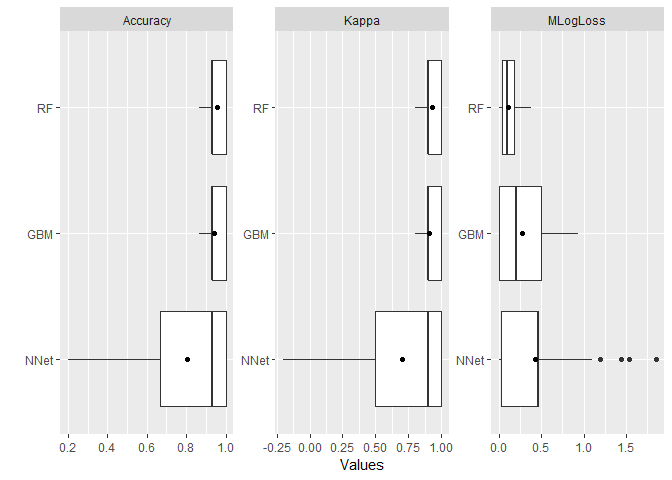
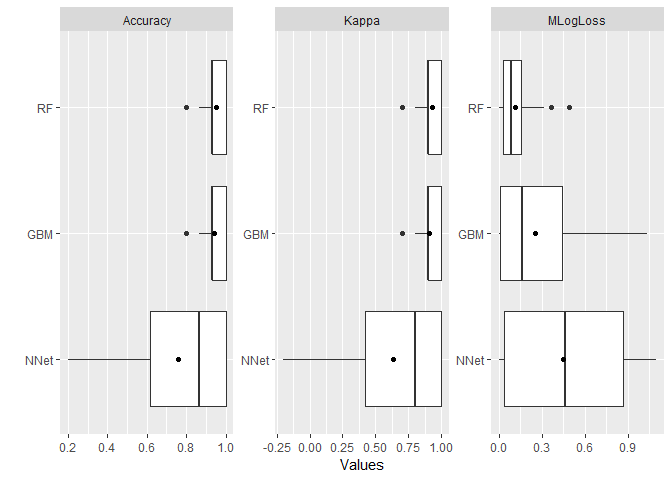
Replace MLModel response field with MLModelFit .y

diff --git a/README.md b/README.md
@@ -312,10 +312,10 @@ modelmetrics(obs, pred)
 #> resamples: 10
 
 summary(perf)
-#>               Mean    Median         SD         Min       Max NA
-#> Accuracy 0.9466667 0.9333333 0.05258738 0.866666667 1.0000000  0
-#> Kappa    0.9200000 0.9000000 0.07888106 0.800000000 1.0000000  0
-#> MLogLoss 0.2552582 0.1063595 0.28612682 0.001919676 0.7497674  0
+#>               Mean    Median         SD          Min       Max NA
+#> Accuracy 0.9333333 0.9333333 0.06285394 0.8000000000 1.0000000  0
+#> Kappa    0.9000000 0.9000000 0.09428090 0.7000000000 1.0000000  0
+#> MLogLoss 0.2265341 0.1212854 0.23089382 0.0003321915 0.5716866  0
 
 plot(perf)
 ```
@@ -341,11 +341,11 @@ plot(gbmtune, type = "line")
 gbmtunefit <- fit(fo, data = df, model = gbmtune)
 
 varimp(gbmtunefit)
-#>                Overall
-#> Petal.Length 100.00000
-#> Petal.Width   36.94008
-#> Sepal.Length   0.00000
-#> Sepal.Width    0.00000
+#>               Overall
+#> Petal.Length 100.0000
+#> Petal.Width   41.5202
+#> Sepal.Length   0.0000
+#> Sepal.Width    0.0000
 ```
 
 ### Model Comparisons
@@ -363,24 +363,24 @@ perf <- Resamples(GBM = gbmperf, RF = rfperf, NNet = nnetperf)
 summary(perf)
 #> , , Accuracy
 #> 
-#>           Mean    Median         SD       Min Max NA
-#> GBM  0.9413333 0.9333333 0.04595176 0.8666667   1  0
-#> RF   0.9560000 0.9333333 0.04782811 0.8666667   1  0
-#> NNet 0.8026667 0.9333333 0.22170643 0.2000000   1  0
+#>           Mean    Median         SD Min Max NA
+#> GBM  0.9386667 0.9333333 0.05360475 0.8   1  0
+#> RF   0.9533333 0.9333333 0.05259696 0.8   1  0
+#> NNet 0.7560000 0.8666667 0.26687407 0.2   1  0
 #> 
 #> , , Kappa
 #> 
 #>       Mean Median         SD  Min Max NA
-#> GBM  0.912    0.9 0.06892765  0.8   1  0
-#> RF   0.934    0.9 0.07174217  0.8   1  0
-#> NNet 0.704    0.9 0.33255965 -0.2   1  0
+#> GBM  0.908    0.9 0.08040713  0.7   1  0
+#> RF   0.930    0.9 0.07889544  0.7   1  0
+#> NNet 0.634    0.8 0.40031110 -0.2   1  0
 #> 
 #> , , MLogLoss
 #> 
-#>           Mean     Median         SD          Min       Max NA
-#> GBM  0.2701410 0.20428253 0.26370125 8.629640e-04 0.9391568  0
-#> RF   0.1163476 0.09404182 0.09769631 8.437327e-03 0.3860373  0
-#> NNet 0.4244166 0.46209812 0.46775866 8.472304e-05 1.8545264  0
+#>           Mean     Median        SD          Min       Max NA
+#> GBM  0.2518192 0.16342373 0.2688835 0.0010846265 1.0332245  0
+#> RF   0.1148603 0.08794764 0.1026771 0.0059784000 0.4879684  0
+#> NNet 0.4484417 0.46209826 0.4244811 0.0002317343 1.0986124  0
 
 plot(perf)
 ```
@@ -394,24 +394,24 @@ perfdiff <- diff(perf)
 summary(perfdiff)
 #> , , Accuracy
 #> 
-#>                   Mean Median         SD         Min        Max NA
-#> GBM - RF   -0.01466667      0 0.03636549 -0.06666667 0.06666667  0
-#> GBM - NNet  0.13866667      0 0.22691463 -0.13333333 0.73333333  0
-#> RF - NNet   0.15333333      0 0.22985749 -0.13333333 0.73333333  0
+#>                   Mean     Median         SD        Min        Max NA
+#> GBM - RF   -0.01466667 0.00000000 0.03877957 -0.1333333 0.06666667  0
+#> GBM - NNet  0.18266667 0.06666667 0.26283299 -0.1333333 0.73333333  0
+#> RF - NNet   0.19733333 0.03333333 0.25906162 -0.1333333 0.73333333  0
 #> 
 #> , , Kappa
 #> 
 #>              Mean Median         SD  Min Max NA
-#> GBM - RF   -0.022      0 0.05454824 -0.1 0.1  0
-#> GBM - NNet  0.208      0 0.34037195 -0.2 1.1  0
-#> RF - NNet   0.230      0 0.34478624 -0.2 1.1  0
+#> GBM - RF   -0.022   0.00 0.05816935 -0.2 0.1  0
+#> GBM - NNet  0.274   0.10 0.39424948 -0.2 1.1  0
+#> RF - NNet   0.296   0.05 0.38859244 -0.2 1.1  0
 #> 
 #> , , MLogLoss
 #> 
-#>                  Mean       Median        SD         Min       Max NA
-#> GBM - RF    0.1537934  0.073026764 0.1913883 -0.03670239 0.5726908  0
-#> GBM - NNet -0.1542756  0.001171424 0.4843939 -1.71381702 0.6686546  0
-#> RF - NNet  -0.3080690 -0.205618326 0.4625920 -1.77270930 0.2399817  0
+#>                  Mean      Median        SD         Min        Max NA
+#> GBM - RF    0.1369589  0.06137821 0.1849732 -0.04170943 0.66167256  0
+#> GBM - NNet -0.1966225 -0.01021118 0.4405118 -1.09726064 0.58532527  0
+#> RF - NNet  -0.3335814 -0.22890815 0.4066831 -1.09142835 0.08762133  0
 
 t.test(perfdiff)
 #> An object of class "ResamplesHTest"
@@ -423,23 +423,23 @@ t.test(perfdiff)
 #> , , Accuracy
 #> 
 #>               GBM            RF      NNet
-#> GBM            NA -1.466667e-02 0.1386667
-#> RF   0.0063465898            NA 0.1533333
-#> NNet 0.0001513451  6.080819e-05        NA
+#> GBM            NA -1.466667e-02 0.1826667
+#> RF   1.014730e-02            NA 0.1973333
+#> NNet 2.074356e-05  6.097090e-06        NA
 #> 
 #> , , Kappa
 #> 
-#>               GBM            RF  NNet
-#> GBM            NA -2.200000e-02 0.208
-#> RF   0.0063465898            NA 0.230
-#> NNet 0.0001513451  6.080819e-05    NA
+#>               GBM           RF  NNet
+#> GBM            NA -2.20000e-02 0.274
+#> RF   1.014730e-02           NA 0.296
+#> NNet 2.074356e-05  6.09709e-06    NA
 #> 
 #> , , MLogLoss
 #> 
 #>               GBM           RF       NNet
-#> GBM            NA 1.537934e-01 -0.1542756
-#> RF   2.160468e-06           NA -0.3080690
-#> NNet 2.883235e-02 4.163375e-05         NA
+#> GBM            NA 1.369589e-01 -0.1966225
+#> RF   6.863865e-06           NA -0.3335814
+#> NNet 2.733302e-03 1.425115e-06         NA
 
 plot(perfdiff)
 ```
@@ -459,10 +459,10 @@ rec <- recipe(fo, data = df) %>%
 perf <- resample(rec, model = GBMModel, control = CVControl)
 
 summary(perf)
-#>               Mean    Median         SD        Min       Max NA
-#> Accuracy 0.9466667 0.9333333 0.04216370 0.86666667 1.0000000  0
-#> Kappa    0.9200000 0.9000000 0.06324555 0.80000000 1.0000000  0
-#> MLogLoss 0.1433132 0.1400161 0.12644266 0.01092646 0.3969964  0
+#>               Mean     Median         SD        Min       Max NA
+#> Accuracy 0.9333333 0.93333333 0.05443311 0.86666667 1.0000000  0
+#> Kappa    0.9000000 0.90000000 0.08164966 0.80000000 1.0000000  0
+#> MLogLoss 0.1603888 0.08378907 0.16326216 0.01499845 0.4585311  0
 ```
 
 Documentation
